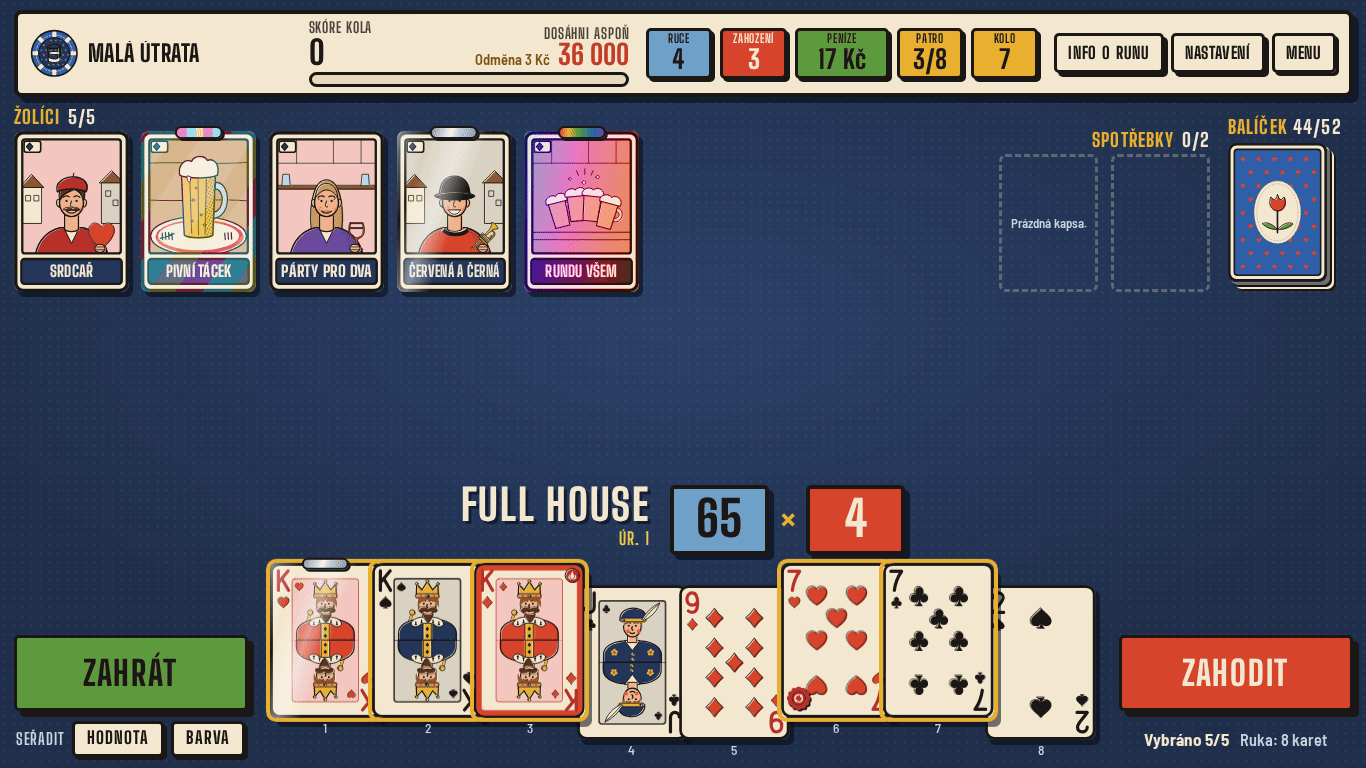
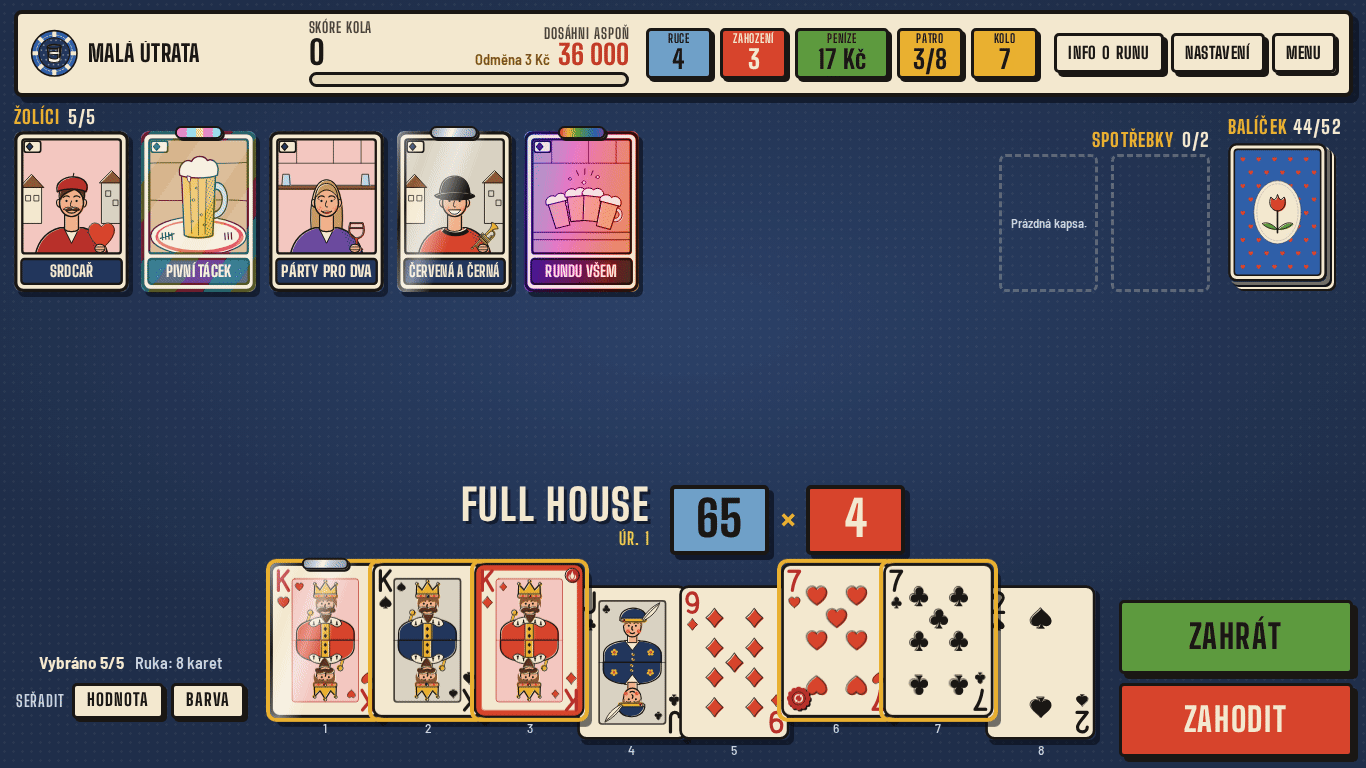
feat(ui): Zahrat and Zahodit side by side next to the hand
The two main buttons were on opposite sides of the hand, so the mouse had to
cross the whole screen between playing and discarding. They now sit stacked in
one fixed-width column to the right of the hand (Zahrat above Zahodit), with
the counts and sort buttons in the left column; on tablet and phone they are
next to each other under the hand. DOM order follows the visual order, so Tab
goes counts/sort -> Zahrat -> Zahodit. README media refreshed.

Claude-Session: https://claude.ai/code/session_01NwxbcCmohEvupYyde7D1S4

diff --git a/src/ui/styles/game.css b/src/ui/styles/game.css
@@ -1906,10 +1906,10 @@
 /* ─────────────────────────── Dole: ruka a ovládání ─────────────────────────── */
 
 /*
- * Ruka uprostřed, vlevo Zahrát a pod ním třídění, vpravo Zahodit a pod ním počty (vybráno, velikost ruky).
- * Boční sloupce mají stálou šířku — tlačítka se při zahrání neposouvají za zmenšenou rukou. Obaly ruky
- * a ovládání (`.gb-hand-wrap`, `.gb-controls`, `.gb-mid`) jsou `display: contents`, ať jejich prvky sedí
- * v jedné mřížce. Balíček stojí v horní řadě (index.ts).
+ * Ruka uprostřed, Zahrát a Zahodit u sebe vpravo od ruky (Zahrát nad Zahodit — myš je má na jednom místě),
+ * vlevo počty (vybráno, velikost ruky) a pod nimi třídění. Boční sloupce mají stálou šířku — tlačítka se při
+ * zahrání neposouvají za zmenšenou rukou. Obaly ruky a ovládání (`.gb-hand-wrap`, `.gb-controls`, `.gb-mid`)
+ * jsou `display: contents`, ať jejich prvky sedí v jedné mřížce. Balíček stojí v horní řadě (index.ts).
  */
 .game-bottom {
   position: relative;
@@ -1917,9 +1917,9 @@
   grid-template-columns: minmax(9rem, 13rem) minmax(0, 1fr) minmax(9rem, 13rem);
   grid-template-rows: minmax(0, 1fr) auto;
   grid-template-areas:
-    'play hand discard'
-    'sort hand counts';
-  gap: 0.55rem 1rem;
+    'counts hand play'
+    'sort hand discard';
+  gap: 0.5rem 1rem;
 }
 
 .game-main.is-handless .game-bottom {
@@ -2026,29 +2026,31 @@
   display: none;
 }
 
-/* Zahrát = zelený blok, Zahodit = rumělkový blok s krémovým písmem; velké, po stranách ruky. */
+/* Zahrát = zelený blok, Zahodit = rumělkový blok s krémovým písmem; velké, nad sebou vpravo od ruky. */
 .gb-play,
 .gb-discard {
-  align-self: end;
   justify-self: stretch;
   min-width: 0;
-  min-height: 4.2rem;
-  font-size: 1.9rem;
-  --btn-shadow: 6px 6px 0 var(--ink);
+  min-height: 4rem;
+  font-size: 1.85rem;
+  --btn-shadow: 5px 5px 0 var(--ink);
 }
 
 .gb-play {
   --wash: var(--wash-green);
 
   grid-area: play;
+  align-self: end;
 }
 
 .gb-discard {
   grid-area: discard;
+  align-self: start;
 }
 
 .gb-sort {
   grid-area: sort;
+  align-self: start;
   display: flex;
   flex-wrap: wrap;
   gap: 0.35rem;
@@ -2085,7 +2087,7 @@
   flex-wrap: wrap;
   gap: 0.15rem 0.6rem;
   align-items: baseline;
-  align-self: center;
+  align-self: end;
   justify-content: center;
 }
 
@@ -2221,15 +2223,15 @@
   }
 }
 
-/* Tablet na výšku (≤ 900 px): Zahrát a Zahodit pod rukou vedle sebe, třídění a počty mezi nimi. */
+/* Tablet na výšku (≤ 900 px): pod rukou vlevo třídění a počty, vpravo Zahrát a Zahodit vedle sebe. */
 @media (max-width: 900px) {
   .game-bottom {
-    grid-template-columns: minmax(0, 1fr) auto minmax(0, 1fr);
+    grid-template-columns: minmax(0, 1fr) minmax(0, 13rem) minmax(0, 13rem);
     grid-template-rows: auto auto;
     grid-template-areas:
       'hand hand hand'
-      'play mid discard';
-    gap: 0.3rem 0.75rem;
+      'mid play discard';
+    gap: 0.3rem 0.6rem;
   }
 
   .gb-mid {
@@ -2237,7 +2239,7 @@
     display: flex;
     flex-direction: column;
     gap: 0.3rem;
-    align-items: center;
+    align-items: flex-start;
     justify-content: center;
   }
 
@@ -2249,14 +2251,9 @@
     --btn-shadow: 4px 4px 0 var(--ink);
   }
 
-  .gb-play {
-    justify-self: end;
-    width: min(100%, 15rem);
-  }
-
+  .gb-play,
   .gb-discard {
-    justify-self: start;
-    width: min(100%, 15rem);
+    justify-self: stretch;
   }
 }
 
@@ -2787,10 +2784,14 @@
     column-gap: 0.75rem;
   }
 
+  .ui-large .game-bottom {
+    row-gap: 0.4rem;
+  }
+
   .ui-large .gb-play,
   .ui-large .gb-discard {
-    min-height: 3.2rem;
-    font-size: 1.45rem;
+    min-height: 2.8rem;
+    font-size: 1.4rem;
   }
 
   /* Lišta o kus nižší (žetony a čísla), ať karty a panely fází dostanou víc výšky. */

diff --git a/src/ui/screens/game/handArea.ts b/src/ui/screens/game/handArea.ts
@@ -137,17 +137,18 @@ export function createHandArea(ctx: GameCtx, actions: HandAreaActions): HandArea
     sortRank,
     sortSuit,
   );
+  // Pořadí v DOM = pořadí na obrazovce (Tab): vlevo počty a třídění, vpravo Zahrát a pod ním Zahodit.
   const controls = h(
     'div',
     { class: 'gb-controls' },
-    playBtn,
     h(
       'div',
       { class: 'gb-mid' },
-      sortGroup,
       h('div', { class: 'gb-counts' }, selectedEl, handSizeEl),
+      sortGroup,
       alertEl,
     ),
+    playBtn,
     discardBtn,
   );
 

diff --git a/docs/DECISIONS.md b/docs/DECISIONS.md
@@ -3824,8 +3824,10 @@ ze 60. let. K tomu nové rozvržení.
   - Balíček je v horní řadě vedle spotřebek.
   - Náhled čipy × mult je velký uprostřed stolu pod zahranými kartami. Stůl už není prázdný a hlavní okamžik hry
     je uprostřed.
-  - Ruka je větší (karta se počítá ze šířky i výšky okna). Zahrát a Zahodit jsou velké bloky po stranách
-    ve sloupcích stálé šířky, takže při zahrání neuhýbají. Třídění je pod Zahrát, počty pod Zahodit.
+  - Ruka je větší (karta se počítá ze šířky i výšky okna). Zahrát a Zahodit jsou velké bloky u sebe vpravo
+    od ruky (Zahrát nad Zahodit) ve sloupci stálé šířky, takže při zahrání neuhýbají. Vlevo jsou počty a třídění.
+    Hráč chtěl obě tlačítka blízko sebe — původně byla každé na jedné straně ruky a myš musela přejíždět přes
+    celou obrazovku. Na tabletu a telefonu jsou vedle sebe pod rukou.
   - Bubliny skórování jsou tištěné nálepky (plná barva, linka, tvrdý stín). Velké skóre dává hořčicový rastr
     místo zlaté záře.
   - Hlášky jdou do volného místa v horní řadě mezi žolíky a spotřebkami. Když tam místo není, jdou do pravého

diff --git a/docs/ARCHITECTURE.md b/docs/ARCHITECTURE.md
@@ -366,7 +366,7 @@ flavor a že texty dodržují typografii.
 - Herní obrazovka (Sirkárna): nahoře kartonová lišta (`sidebar.ts`: útrata, skóre s ukazatelem, cíl, žetony, tlačítka),
   pod ní řada žolíků se jménem a obrysy volných slotů, spotřebky a balíček (`topRow.ts`, balíček přesune `index.ts`),
   uprostřed stůl se zahranými kartami a pod nimi velký náhled čipy × mult (`sidebar.handInfoEl` v `.game-scoreboard`),
-  dole ruka a po stranách velká Zahrát / Zahodit ve sloupcích stálé šířky (`handArea.ts`). Velikost karet
+  dole ruka, vpravo od ní velká Zahrát a Zahodit nad sebou, vlevo počty a třídění (`handArea.ts`). Velikost karet
   `--card-w` plyne z šířky i výšky okna (game.css).
 - Šéfové a štítky v UI (fáze 6): texty přes `describe.ts` (`bossTexts` dosazuje `BossDef.params`, `bossReasonText`
   = „Šéf X: pravidlo“ jen když pravidlo v kole platí). Příchod šéfa = plakát nad stolem (`screens/game/bossBanner.ts`,

diff --git a/ROADMAP.md b/ROADMAP.md
@@ -521,7 +521,7 @@ Náhledy stylů A–I a variant E1–E4 jsou ve scratchpadu (ne v repu); volba h
 - [x] S2: tokeny Sirkárny (`base.css`), písma Big Shoulders Display + Barlow Semi Condensed (OFL, fetch-assets),
       tlačítka, karton, dialogy, hlášky, tooltip
 - [x] S3: herní obrazovka — horní lišta, velcí žolíci se jménem a obrysy slotů, balíček v horní řadě, náhled
-      čipy × mult uprostřed stolu, větší ruka, Zahrát / Zahodit po stranách ve sloupcích stálé šířky; panely fází,
+      čipy × mult uprostřed stolu, větší ruka, Zahrát a Zahodit u sebe vpravo od ruky; panely fází,
       bubliny, karty, tutoriál a efekty v tiskovém stylu; ověřeno na 1024×768, 1280×720, 1366×768, 1920×1080,
       tabletu 820×1180, telefonu 390×844 a při velikosti UI 130 %
 - [x] Doladění podle playtestu: pečetě a edice čitelné na první pohled, kontrast skóre mimo kolo, křížek hlášky
